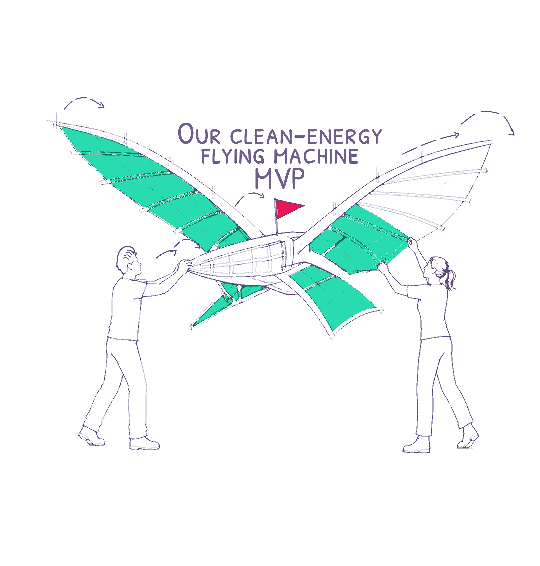
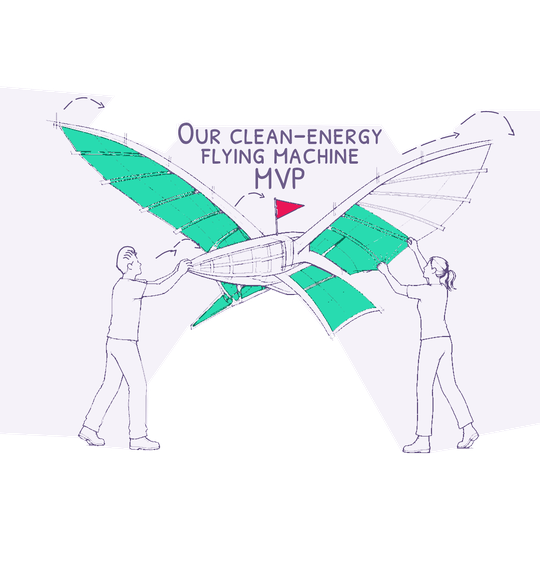
Use Seb's filled flying machine so the line stays behind it.
The open gap under the fuselage stays transparent, and the old line-hide patch is gone.

diff --git a/src/styles/home.css b/src/styles/home.css
@@ -757,20 +757,6 @@ article.card.rose :is(h1, h2, h3, h4, h5, h6, p, li, a, span, strong, em) {
   width: 100%;
 }
 
-/* Hides the route where it passes through the transparent line art,
-   from just above the title to just under the fuselage. */
-.why-line-hide {
-  display: none;
-  position: absolute;
-  z-index: 0;
-  left: 0;
-  width: 66%;
-  top: 16%;
-  height: 44%;
-  background: #f5f2f9;
-  pointer-events: none;
-}
-
 .why-sketch picture {
   position: relative;
   z-index: 1;
